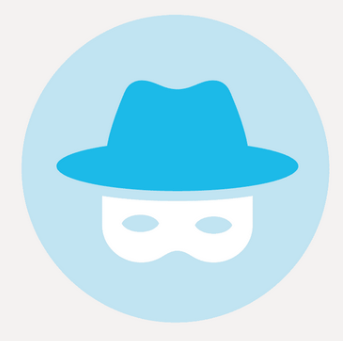
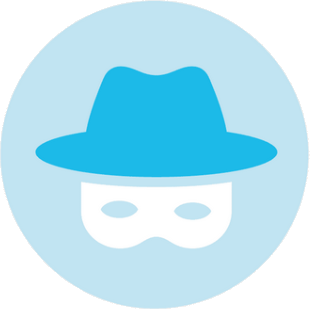
update module 3 - 4

Changed region(s): [[0.0, 0.0, 1.0, 1.0], [0.1161, 0.2039, 0.9, 0.8155], [0.6968, 0.3204, 0.7839, 0.4369]]

diff --git a/cisco/cybersecurityEssentials/intro2cyberSec3-4.html b/cisco/cybersecurityEssentials/intro2cyberSec3-4.html
@@ -306,18 +306,24 @@
                     </li>
                 </ul>
 
-                <p>
-                    When private mode is enabled, cookies — files saved to your device to indicate what websites you’ve
-                    visited — are disabled. Therefore, any temporary internet files are removed and your browsing
-                    history is deleted when you close the window or program. This may help to prevent others from
-                    gathering information about your online activities and trying to entice you to buy something with
-                    targeted ads.
-                </p>
-                <p>
-                    Even with private browsing enabled and cookies disabled, companies are constantly developing new
-                    ways of fingerprinting users in order to track their online behavior. For example, some intermediary
-                    devices, like routers, can gather information about a user’s web surfing history.
-                </p>
+                <figure>
+                    <img src="intro2cybersec.img/incognito.png" alt="">
+                    <figcaption>
+                        <p>
+                            When private mode is enabled, cookies — files saved to your device to indicate what websites
+                            you’ve visited — are disabled. Therefore, any temporary internet files are removed and your
+                            browsing history is deleted when you close the window or program. This may help to prevent
+                            others from gathering information about your online activities and trying to entice you to
+                            buy something with targeted ads.
+                        </p>
+                        <p>
+                            Even with private browsing enabled and cookies disabled, companies are constantly developing
+                            new ways of fingerprinting users in order to track their online behavior. For example, some
+                            intermediary devices, like routers, can gather information about a user’s web surfing
+                            history.
+                        </p>
+                    </figcaption>
+                </figure>
             </article>
 
             <article>
